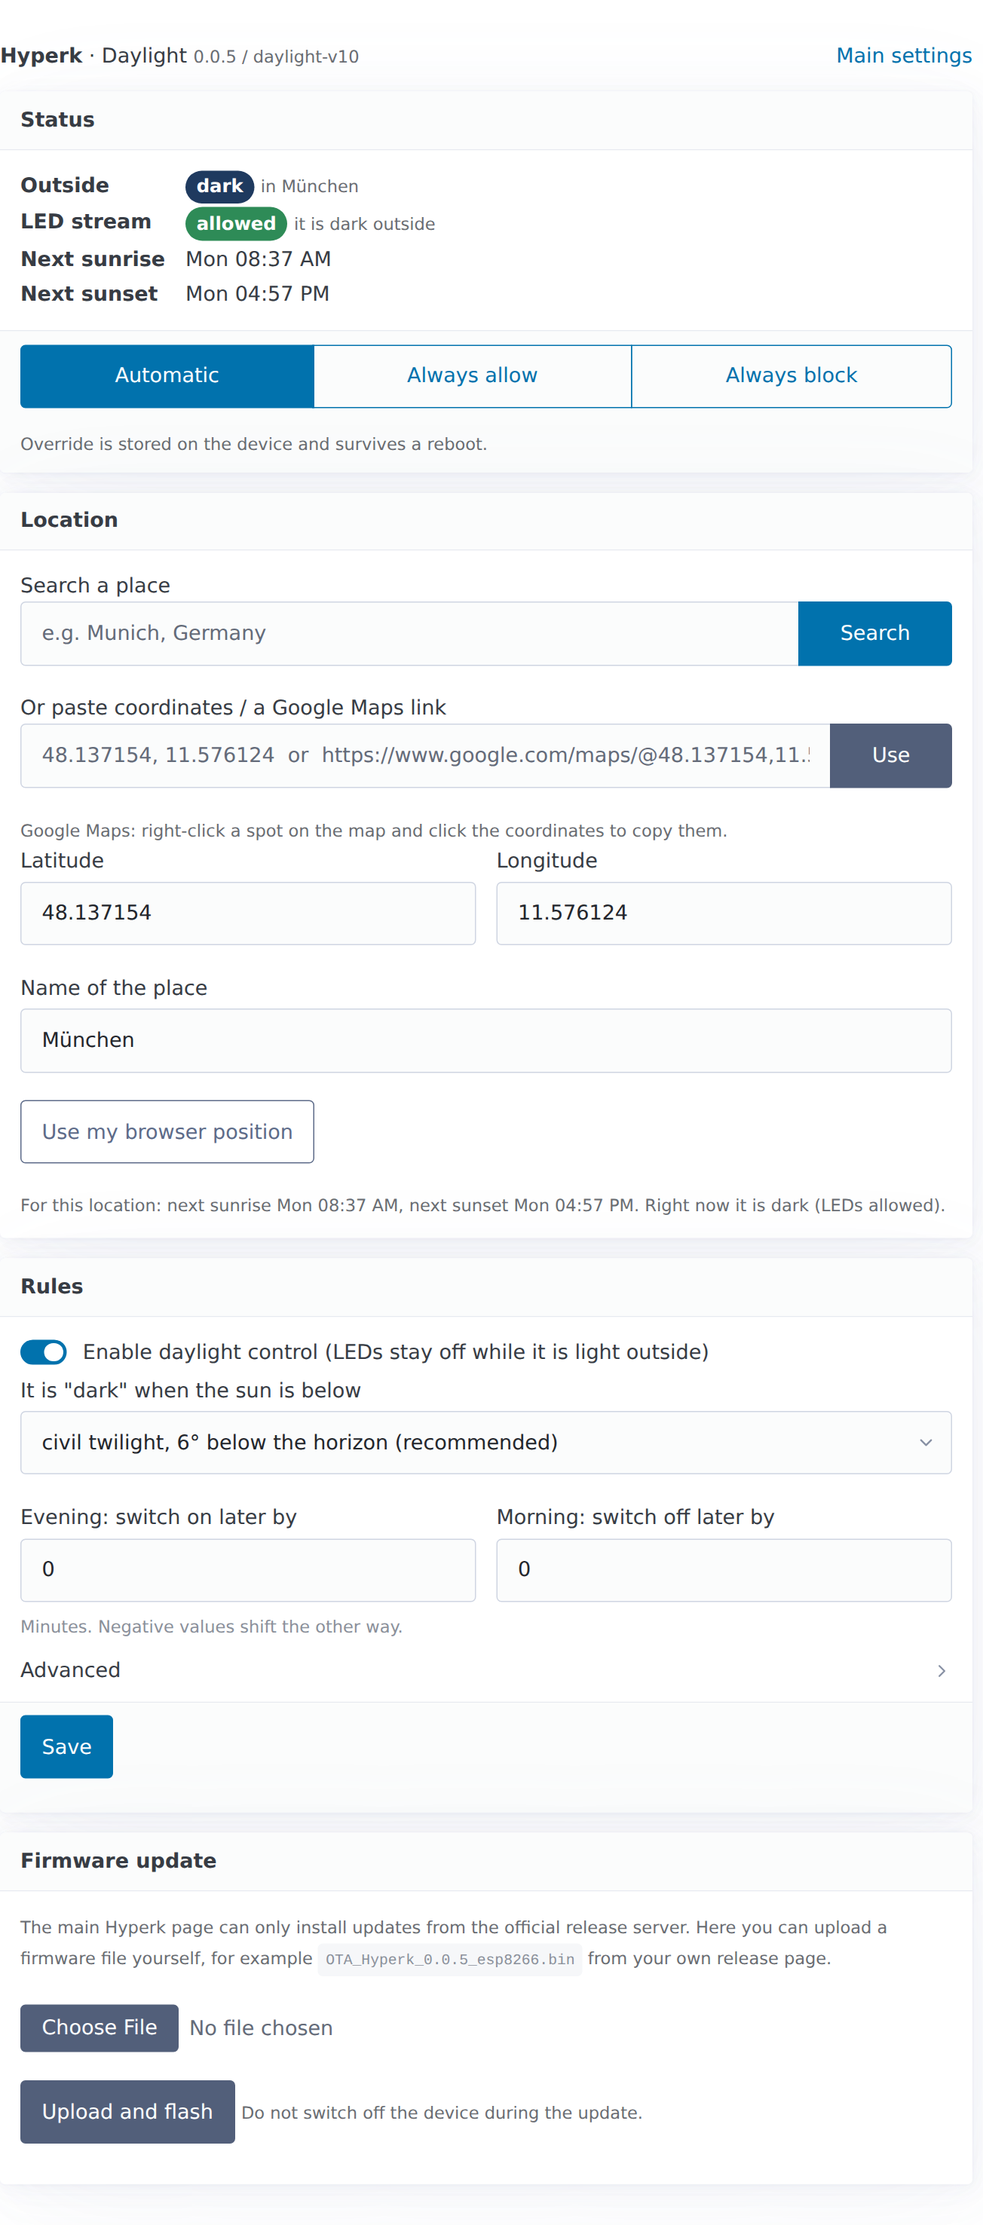
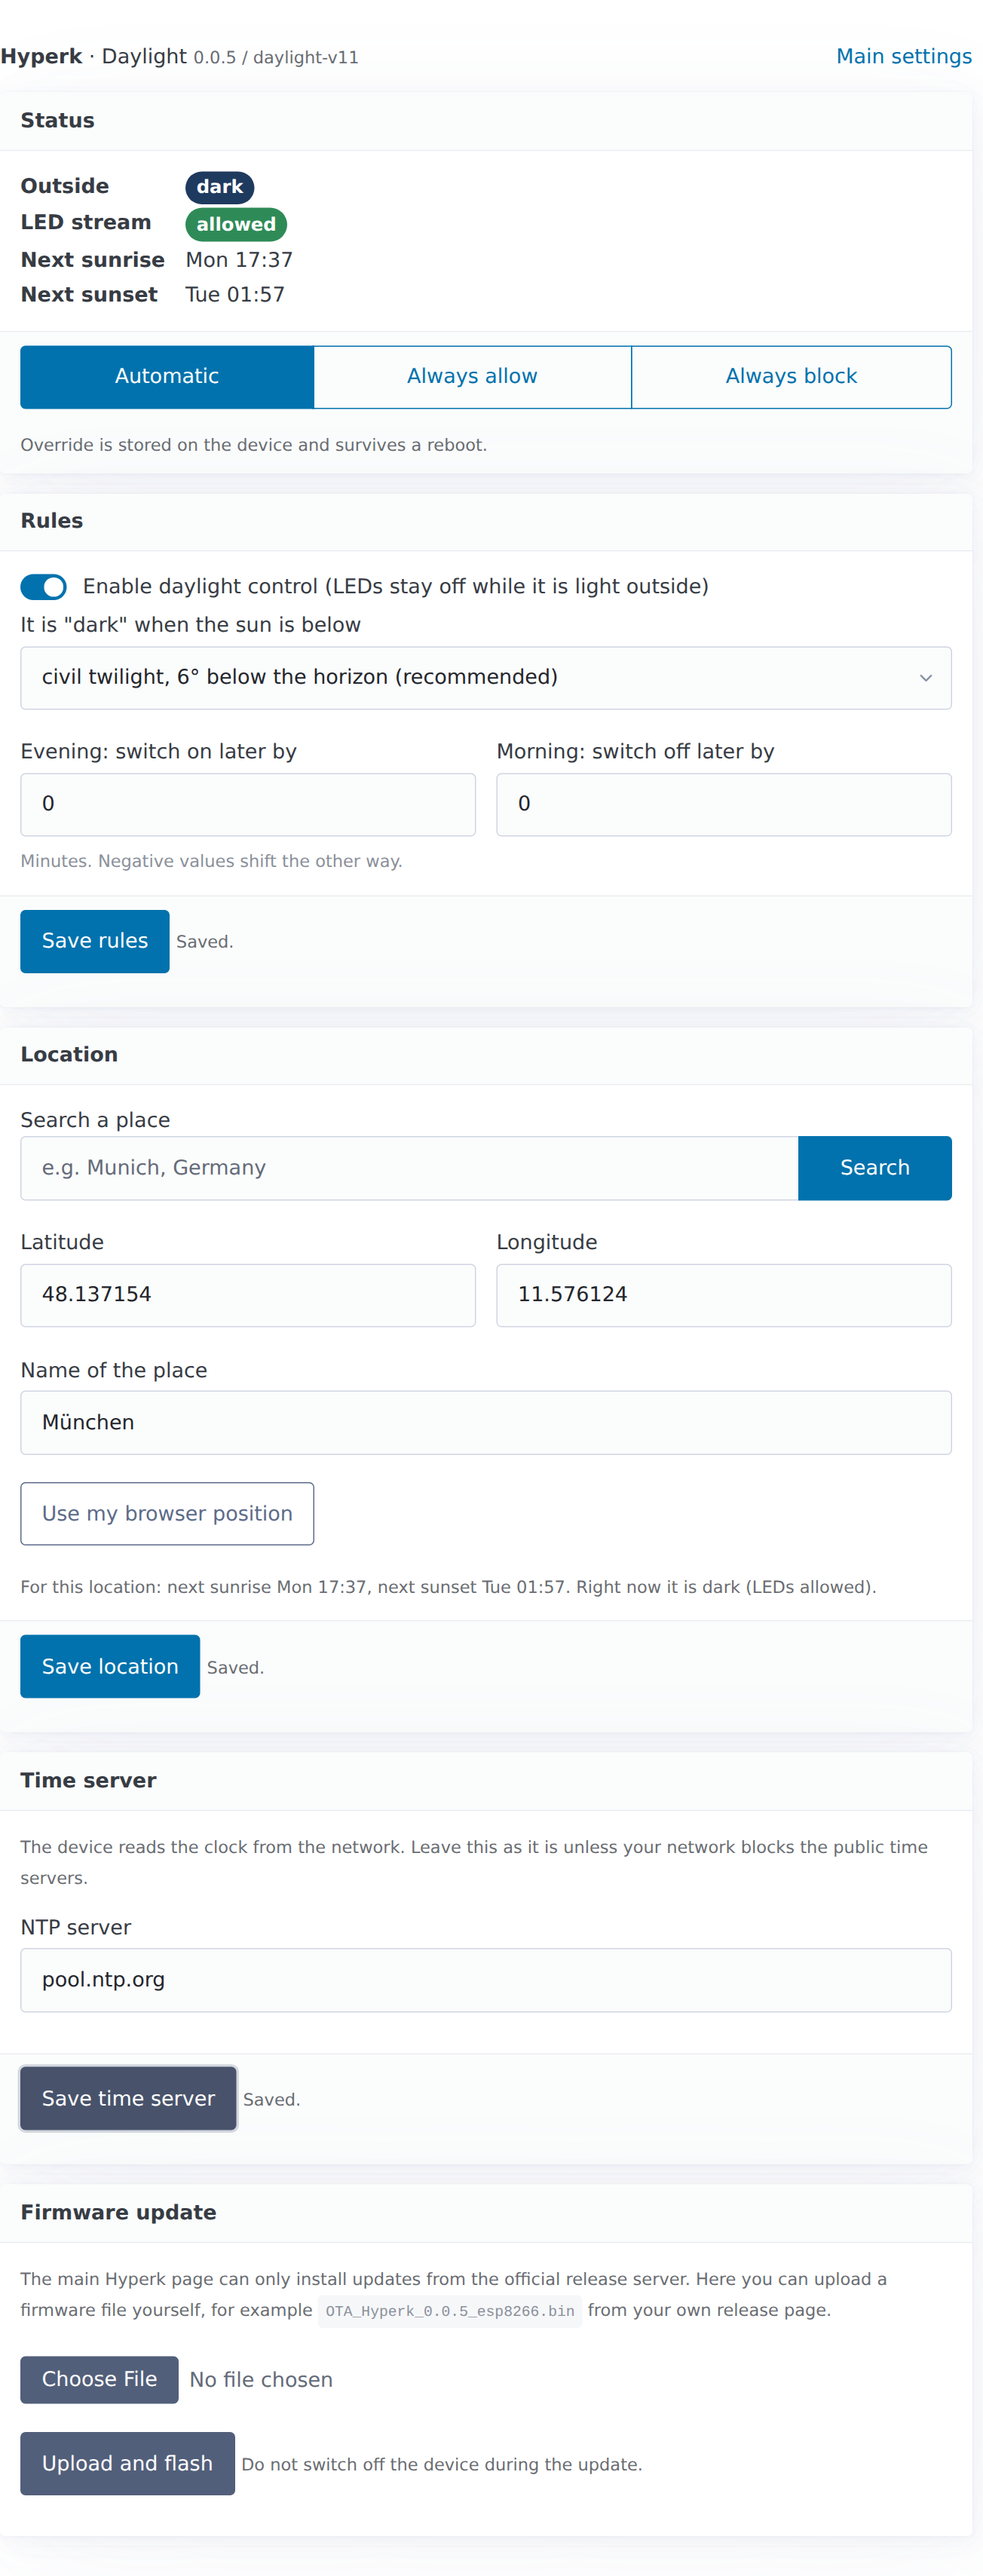
Rework the settings page
- The field for pasting coordinates and Google Maps links is gone. Searching
  a place covers it, and latitude and longitude can still be typed in.
- The time server moved out of an "Advanced" fold into a card of its own.
- Weekdays are rendered in the language of the page instead of the language
  of the browser, and the clock is 24 hour.
- The rules sit directly under the status now, the location follows.
- The status card dropped the repetitions next to the labels: the place name
  and the sentence that only said again what the badge already showed. A note
  appears only when the rule is not simply doing its job, for instance while
  the device is still waiting for the time.
- Each card carries its own save button and sends only its own fields.

Claude-Session: https://claude.ai/code/session_01XptJV4HZ7RaU9kmjqBA5r9

diff --git a/include/daylight_page.h b/include/daylight_page.h
@@ -47,7 +47,7 @@ main.container{max-width:48rem}
 <article>
   <header><strong>Status</strong></header>
   <dl class="kv">
-    <dt>Outside</dt><dd><span id="stState" class="badge b-unknown">unknown</span> <small id="stWhere" class="muted"></small></dd>
+    <dt>Outside</dt><dd><span id="stState" class="badge b-unknown">unknown</span></dd>
     <dt>LED stream</dt><dd><span id="stGate" class="badge b-unknown">-</span> <small id="stReason" class="muted"></small></dd>
     <dt>Next sunrise</dt><dd id="stRise">-</dd>
     <dt>Next sunset</dt><dd id="stSet">-</dd>
@@ -61,34 +61,6 @@ main.container{max-width:48rem}
     </div>
     <small class="muted">Override is stored on the device and survives a reboot.</small>
   </footer>
-</article>
-
-<article>
-  <header><strong>Location</strong></header>
-  <label>Search a place
-    <fieldset role="group">
-      <input id="search" type="text" placeholder="e.g. Munich, Germany" autocomplete="off">
-      <button type="button" onclick="doSearch()">Search</button>
-    </fieldset>
-  </label>
-  <ul id="results"></ul>
-  <small id="searchMsg" class="muted"></small>
-
-  <label>Or paste coordinates / a Google Maps link
-    <fieldset role="group">
-      <input id="paste" type="text" placeholder="48.137154, 11.576124  or  https://www.google.com/maps/@48.137154,11.576124,15z">
-      <button type="button" class="secondary" onclick="doPaste()">Use</button>
-    </fieldset>
-  </label>
-  <small id="pasteMsg" class="muted">Google Maps: right-click a spot on the map and click the coordinates to copy them.</small>
-
-  <div class="grid">
-    <label>Latitude<input id="lat" type="number" step="any" min="-90" max="90" oninput="paintName();preview()"></label>
-    <label>Longitude<input id="lon" type="number" step="any" min="-180" max="180" oninput="paintName();preview()"></label>
-  </div>
-  <label id="labelName">Name of the place<input id="label" type="text" maxlength="60" placeholder="Home" oninput="paintName()"></label>
-  <button type="button" class="secondary outline" onclick="useBrowserPosition()">Use my browser position</button>
-  <small id="preview" class="muted"></small>
 </article>
 
 <article>
@@ -109,13 +81,43 @@ main.container{max-width:48rem}
       <input id="riseOffset" type="number" step="1" min="-360" max="360" value="0" oninput="preview()"></label>
   </div>
   <small class="muted">Minutes. Negative values shift the other way.</small>
-  <details>
-    <summary>Advanced</summary>
-    <label>NTP time server<input id="ntp" type="text" maxlength="46" placeholder="pool.ntp.org"></label>
-  </details>
   <footer>
-    <button type="button" id="saveBtn" onclick="save()">Save</button>
-    <small id="saveMsg" class="muted"></small>
+    <button type="button" id="rulesBtn" onclick="saveRules()">Save rules</button>
+    <small id="rulesMsg" class="muted"></small>
+  </footer>
+</article>
+
+<article>
+  <header><strong>Location</strong></header>
+  <label>Search a place
+    <fieldset role="group">
+      <input id="search" type="text" placeholder="e.g. Munich, Germany" autocomplete="off">
+      <button type="button" onclick="doSearch()">Search</button>
+    </fieldset>
+  </label>
+  <ul id="results"></ul>
+  <small id="searchMsg" class="muted"></small>
+
+  <div class="grid">
+    <label>Latitude<input id="lat" type="number" step="any" min="-90" max="90" oninput="paintName();preview()"></label>
+    <label>Longitude<input id="lon" type="number" step="any" min="-180" max="180" oninput="paintName();preview()"></label>
+  </div>
+  <label id="labelName">Name of the place<input id="label" type="text" maxlength="60" placeholder="Home" oninput="paintName()"></label>
+  <button type="button" class="secondary outline" onclick="useBrowserPosition()">Use my browser position</button>
+  <small id="preview" class="muted"></small>
+  <footer>
+    <button type="button" id="locBtn" onclick="saveLocation()">Save location</button>
+    <small id="locMsg" class="muted"></small>
+  </footer>
+</article>
+
+<article>
+  <header><strong>Time server</strong></header>
+  <p class="muted"><small>The device reads the clock from the network. Leave this as it is unless your network blocks the public time servers.</small></p>
+  <label>NTP server<input id="ntp" type="text" maxlength="46" placeholder="pool.ntp.org"></label>
+  <footer>
+    <button type="button" id="ntpBtn" class="secondary" onclick="saveTimeServer()">Save time server</button>
+    <small id="ntpMsg" class="muted"></small>
   </footer>
 </article>
 
@@ -135,7 +137,7 @@ var $=function(id){return document.getElementById(id);};
 var cfg=null;
 $('homeLink').href=location.protocol+'//'+location.hostname+'/';
 
-function fmt(epoch){ if(!epoch) return '-'; return new Date(epoch*1000).toLocaleString([],{weekday:'short',hour:'2-digit',minute:'2-digit'}); }
+function fmt(epoch){ if(!epoch) return '-'; return new Date(epoch*1000).toLocaleString('en-GB',{weekday:'short',hour:'2-digit',minute:'2-digit',hour12:false}); }
 
 var lastStatus=null;
 
@@ -145,10 +147,10 @@ function render(s){
   if(s.state==='day'||s.state==='polarDay'){st.classList.add('b-day');st.textContent=(s.state==='polarDay'?'polar day':'daylight');}
   else if(s.state==='night'||s.state==='polarNight'){st.classList.add('b-night');st.textContent=(s.state==='polarNight'?'polar night':'dark');}
   else {st.classList.add('b-unknown');st.textContent='unknown';}
-  $('stWhere').textContent=(s.config&&s.config.label)?('in '+s.config.label):'';
   var g=$('stGate'); g.className='badge '+(s.blocked?'b-off':'b-on'); g.textContent=s.blocked?'blocked (LEDs off)':'allowed';
-  var reasons={disabled:'daylight control is disabled',override:'manual override',noLocation:'no location configured',noTime:'waiting for the time from the network, LEDs work as usual',day:'it is light outside',night:'it is dark outside'};
-  $('stReason').textContent=reasons[s.reason]||s.reason;
+  // only say something when the rule is not simply doing its job
+  var notes={disabled:'switched off',override:'manual override',noLocation:'no location set',noTime:'waiting for the time from the network'};
+  $('stReason').textContent=notes[s.reason]||'';
   $('stRise').textContent=fmt(s.sunrise); $('stSet').textContent=fmt(s.sunset);
   var shifted=s.nextChange&&s.nextChange!==s.sunrise&&s.nextChange!==s.sunset;
   $('stChangeLabel').hidden=!shifted; $('stChange').hidden=!shifted;
@@ -189,32 +191,38 @@ function refresh(initial,attempt){
   });
 }
 
-function collect(){
-  var lat=parseFloat($('lat').value), lon=parseFloat($('lon').value);
-  var c={enabled:$('enabled').checked, altitude:parseFloat($('altitude').value),
-         setOffset:parseInt($('setOffset').value||'0',10), riseOffset:parseInt($('riseOffset').value||'0',10),
-         label:$('label').value, ntp:$('ntp').value};
-  if(isNaN(lat)||isNaN(lon)) c.clearLocation=true; else { c.lat=lat; c.lon=lon; }
-  return c;
-}
-
 function post(body,msgEl,okText){
   var form=new URLSearchParams();
   for(var k in body){ if(body[k]!==undefined&&body[k]!==null) form.append(k,body[k]); }
   return fetch('/api/daylight',{method:'POST',headers:{'Content-Type':'application/x-www-form-urlencoded'},body:form.toString()})
     .then(function(r){return r.json();})
-    .then(function(j){ if(j.ok){ if(msgEl) msgEl.textContent=okText; setTimeout(function(){paintName();
-refresh(true);},600); } else { if(msgEl) msgEl.textContent='Error: '+(j.error||'rejected'); } })
+    .then(function(j){
+      if(j.ok){ if(msgEl) msgEl.textContent=okText; setTimeout(function(){refresh(true);},600); }
+      else { if(msgEl) msgEl.textContent='Error: '+(j.error||'rejected'); }
+    })
     .catch(function(){ if(msgEl) msgEl.textContent='Error: device not reachable'; });
 }
 
-function save(){
-  var c=collect();
-  if(c.enabled && c.clearLocation){ $('saveMsg').textContent='Please set a location first.'; return; }
-  if(!c.clearLocation && !c.label.trim()){ $('saveMsg').textContent='Please name the place.'; $('label').focus(); return; }
-  $('saveMsg').textContent='Saving...';
-  post(c,$('saveMsg'),'Saved.');
+function saveRules(){
+  $('rulesMsg').textContent='Saving...';
+  post({enabled:$('enabled').checked, altitude:$('altitude').value,
+        setOffset:$('setOffset').value||'0', riseOffset:$('riseOffset').value||'0'},
+       $('rulesMsg'),'Saved.');
 }
+
+function saveLocation(){
+  var lat=parseFloat($('lat').value), lon=parseFloat($('lon').value);
+  if(isNaN(lat)||isNaN(lon)){ $('locMsg').textContent='Please pick a place first.'; return; }
+  if(!$('label').value.trim()){ $('locMsg').textContent='Please name the place.'; $('label').focus(); return; }
+  $('locMsg').textContent='Saving...';
+  post({lat:lat, lon:lon, label:$('label').value}, $('locMsg'),'Saved.');
+}
+
+function saveTimeServer(){
+  $('ntpMsg').textContent='Saving...';
+  post({ntp:$('ntp').value||'pool.ntp.org'}, $('ntpMsg'),'Saved.');
+}
+
 function setOverride(mode){ post({override:mode},$('stReason'),'Override set.'); }
 
 var previewTimer=null;
@@ -272,30 +280,6 @@ function doSearch(){
     .catch(function(){ $('searchMsg').textContent='Search unavailable (needs internet access from this browser). Paste coordinates instead.'; });
 }
 $('search').addEventListener('keydown',function(e){ if(e.key==='Enter'){ e.preventDefault(); doSearch(); } });
-
-function parseCoords(s){
-  s=s.trim(); var m; var N='(-?\\d{1,3}(?:\\.\\d+)?)';
-  function chk(a,b){ var la=parseFloat(a), lo=parseFloat(b); if(isNaN(la)||isNaN(lo)||la<-90||la>90||lo<-180||lo>180) return null; return [la,lo]; }
-  if((m=s.match(new RegExp('@'+N+','+N)))) return chk(m[1],m[2]);
-  if((m=s.match(new RegExp('[?&](?:q|query|ll|center|destination|daddr|saddr)='+N+'(?:,|%2C)'+N,'i')))) return chk(m[1],m[2]);
-  if((m=s.match(new RegExp('!3d'+N+'!4d'+N)))) return chk(m[1],m[2]);
-  var dms=/(\d{1,3})[°º]\s*(\d{1,2})['′]\s*(\d{1,2}(?:\.\d+)?)?["″]?\s*([NS])[\s,]+(\d{1,3})[°º]\s*(\d{1,2})['′]\s*(\d{1,2}(?:\.\d+)?)?["″]?\s*([EW])/i;
-  if((m=s.match(dms))){
-    var la=(+m[1])+(+m[2])/60+((+m[3])||0)/3600; if(/s/i.test(m[4])) la=-la;
-    var lo=(+m[5])+(+m[6])/60+((+m[7])||0)/3600; if(/w/i.test(m[8])) lo=-lo;
-    return chk(la,lo);
-  }
-  if((m=s.match(new RegExp('^'+N+'\\s*[,;\\s]\\s*'+N+'$')))) return chk(m[1],m[2]);
-  if((m=s.match(/^(-?\d{1,3}),(\d+)\s*[;\s,]\s*(-?\d{1,3}),(\d+)$/))) return chk(m[1]+'.'+m[2],m[3]+'.'+m[4]);
-  return null;
-}
-function doPaste(){
-  var r=parseCoords($('paste').value);
-  if(!r){ $('pasteMsg').textContent='Could not read coordinates. Expected e.g. 48.137154, 11.576124'; return; }
-  setLocation(r[0],r[1],null);
-  $('pasteMsg').textContent='Parsed: '+r[0].toFixed(6)+', '+r[1].toFixed(6)+' - remember to save.';
-}
-$('paste').addEventListener('keydown',function(e){ if(e.key==='Enter'){ e.preventDefault(); doPaste(); } });
 
 function useBrowserPosition(){
   try{

diff --git a/readme.md b/readme.md
@@ -4,7 +4,7 @@
 
 The LED strip behind your TV is welcome at night and pointless at noon. This fork works out sunrise and sunset from coordinates you enter once, and lets the HyperHDR picture stream reach the LEDs only while it is dark outside. Everything else about Hyperk stays as it is.
 
-- Location by place name, by coordinates pasted from Google Maps, or typed in by hand
+- Location by place name or by coordinates typed in by hand
 - Choose when it counts as dark, from sunset down to astronomical twilight, and shift either edge by minutes
 - Settings page in the style of the existing interface, on port 8080, plus a firmware upload the stock interface does not offer
 - Falls back to normal behaviour whenever the time or the location is missing, so it cannot leave you in the dark
@@ -30,11 +30,14 @@ Open `http://hyperk.local:8080/`, or `http://<device-ip>:8080/`. It uses the sam
 | Card | What you do there |
 | :--- | :--- |
 | Status | See whether it is dark, whether the stream is allowed, and the next sunrise and sunset in your local time. Three buttons force the gate open or shut for testing. |
-| Location | Search a place by name, paste coordinates copied from Google Maps such as `48.137154, 11.576124`, paste a whole Maps link, or type latitude and longitude. Name the place, the name appears next to the state in the status card. A preview shows the resulting sun times before you save. |
+| Location | Search a place by name, or type latitude and longitude. Give the place a name, then save. A preview shows the resulting sun times before you save. |
 | Rules | Switch the whole feature on, pick when it counts as dark, and shift both edges by minutes. |
+| Time server | The NTP server the clock comes from. Only worth touching if your network blocks the public ones. |
 | Firmware update | Pick a `.bin` file and flash it. The stock interface on port 80 cannot do this, it only installs releases from the upstream project. |
 
 The place search runs in your browser against the free Open-Meteo geocoding service, so the device itself needs no internet access beyond NTP.
+
+Each card saves on its own, so a change to the rules does not touch the location and the other way round.
 
 **When it counts as dark** is configurable. The default is civil twilight, six degrees below the horizon, which is roughly half an hour after the sun sets. Sunset itself, nautical and astronomical twilight are also offered, and the two offset fields shift each edge by up to six hours in either direction.
 
